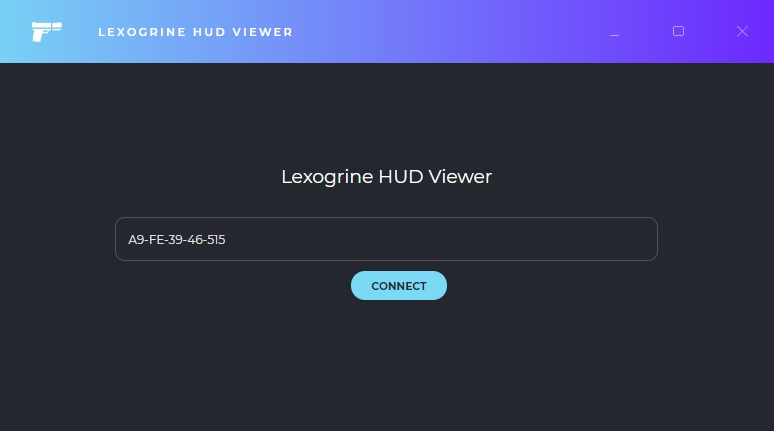
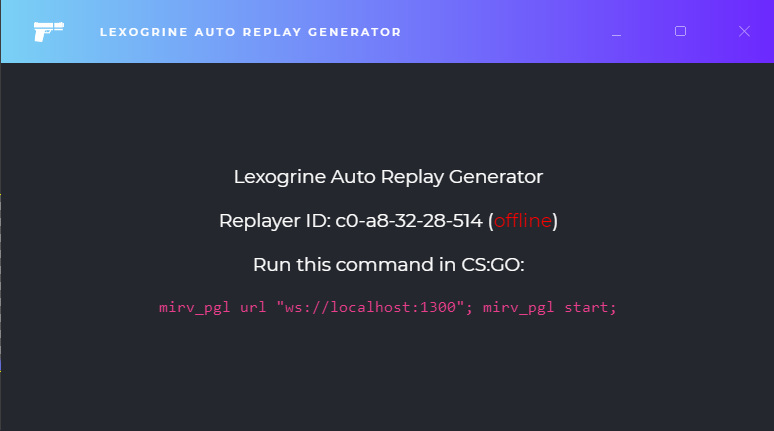
Updated docs

diff --git a/src/App.tsx b/src/App.tsx
@@ -8,16 +8,14 @@ const { ipcRenderer } = window.require('electron');
 function App() {
 	const [status, setStatus] = useState(false);
 	const [address, setAddress] = useState('');
+	const [port, setPort] = useState(0);
 
-	const switchToOszten = () => {
-		ipcRenderer.send('switchToPlayer', 'h-k')
-	}
 
 	useEffect(() => {
 		setStatus(false);
-		ipcRenderer.on('address', (e: any, address: { ip:string, port: number}) => {
-			console.log('port',address.port)
-			setAddress(address.ip.split('.').map(Number).map(n => n.toString(16)).join('-')+"-"+address.port.toString(16))
+		ipcRenderer.on('address', (e: any, address: { ip: string, port: number }) => {
+			setPort(address.port);
+			setAddress(address.ip.split('.').map(Number).map(n => n.toString(16)).join('-') + "-" + address.port.toString(16))
 		});
 		ipcRenderer.on('argStatus', (e: any, status: boolean) => {
 			setStatus(status);
@@ -53,11 +51,15 @@ function App() {
 			<div className="App-container">
 				<main>
 					<p>Lexogrine Auto Replay Generator</p>
-					<p>
-						LHM Status ({address}):{' '}
-						<span className={status ? 'online' : 'offline'}>{status ? 'online' : 'offline'}</span>
-					</p>
-					<button onClick={switchToOszten}>SWITCH</button>
+					<p>Replayer ID: {address} (<span className={status ? 'online' : 'offline'}>{status ? 'online' : 'offline'}</span>)</p>
+					{
+						port ? (
+							<>
+								<p>Run this command in CS:GO:</p>
+								<code>mirv_pgl url &quot;ws://localhost:{port}&quot;; mirv_pgl start;</code>
+							</>
+						) : null
+					}
 				</main>
 			</div>
 		</div>

diff --git a/dist/arg/queue.js b/dist/arg/queue.js
@@ -85,7 +85,6 @@ var ARGQueue = /** @class */ (function () {
     function ARGQueue(server) {
         var _this = this;
         this.swapToPlayer = function (player) {
-            console.log('swapping to', player);
             if (player.steamid) {
                 _this.pgl.execute("spec_player_by_accountid " + player.steamid);
             }

diff --git a/arg/queue.ts b/arg/queue.ts
@@ -75,7 +75,6 @@ export class ARGQueue {
     }
 
     swapToPlayer = (player: { steamid?: string, name?: string }) => {
-        console.log('swapping to', player)
         if(player.steamid){
             this.pgl.execute(`spec_player_by_accountid ${player.steamid}`);
         } else if(player.name){

diff --git a/README.md b/README.md
@@ -1,11 +1,22 @@
-![Lexogrine HUD Viewer](assets/githubLogo.png?raw=true)
-# Lexogrine HUD Viewer
+![Lexogrine ARG](assets/githubLogo.png?raw=true)
+# Lexogrine Auto Replay Generator
 
-Lexogrine HUD Viewer is an extension for Lexogrine HUD Manager (1.8+), allowing users to connect to a remote Lexogrine HUD Manager instance in the same network, receive CS:GO data from it and use HUDs remotely. All you have to do (provided you have a proper firewall configuration) is input the Viewer Code from your LHM instance and hit Connect.
+Lexogrine Auto Replay Generator is an extension for Lexogrine HUD Manager (2.3+), allowing users to automate replays during their CS:GO broadcasts using vMix
+
+
+# Setup
+To use this properly, you need 2 PCs connected to differently delayed GOTVs of the same match (7 seconds of delay difference would be best). On PC#1 (live game) you should have Lexogrine HUD Manager 2.3 or newer, while PC#2 (delayed relative to PC#1) should handle vMix Instant Replays and have ARG installed. Additionally, PC#2 should be opened with HLAE, as this is crucial to switch between players.
+
+vMix setup is up to the user.
+
+# Connecting
+
+To connect both PCs you just need to put ARGs ID to LHM and click connect. ARG app on PC#2 should update its status to online. After you connected both PCs to GOTV you should execute command shown by ARG in CS:GO's console on PC#2.
+
+If vMix's Instant Replay is correctly setup on PC#2, it should start changing observed player on its own, clipping kills, and playing it to output after round's end.
 
 ## Download
 
-[Latest release](https://github.com/lexogrine/hud-viewer/releases/latest)
+[Latest release](https://github.com/lexogrine/auto-replay-generator/releases/latest)
 ## Preview
-![Lexogrine HUD Viewer](assets/preview1.jpg?raw=true)
-![Lexogrine HUD Viewer](assets/preview2.jpg?raw=true)
+![Lexogrine ARG](assets/preview1.jpg?raw=true)
